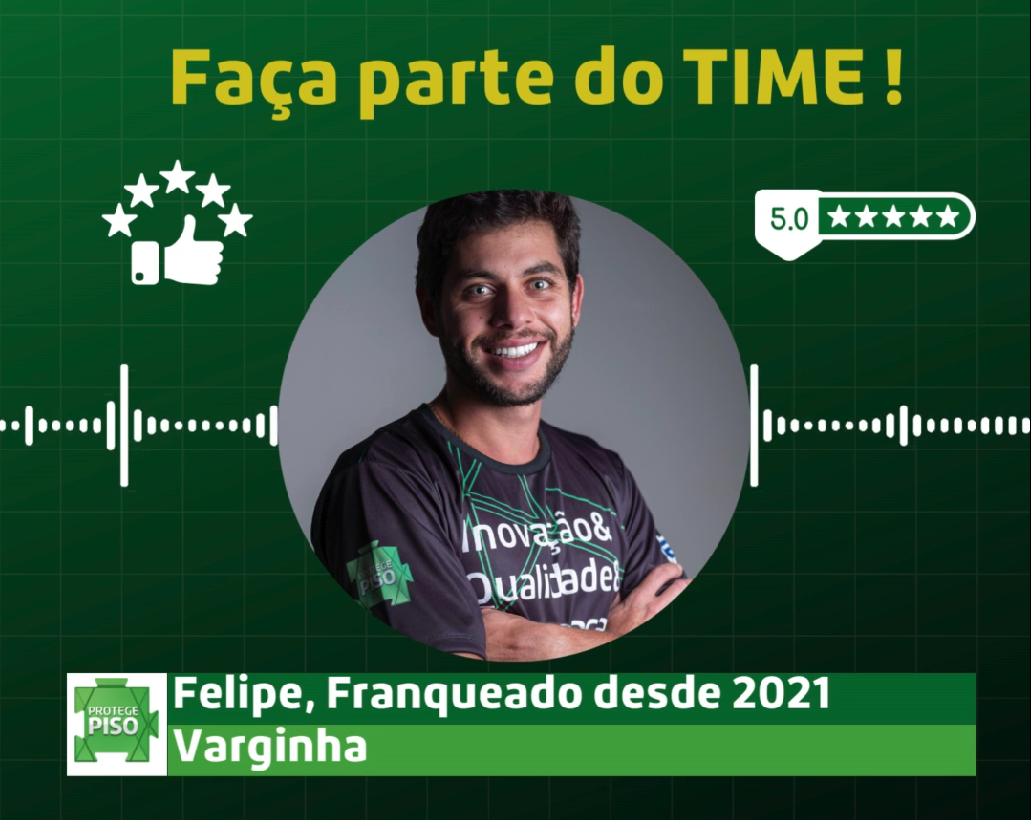
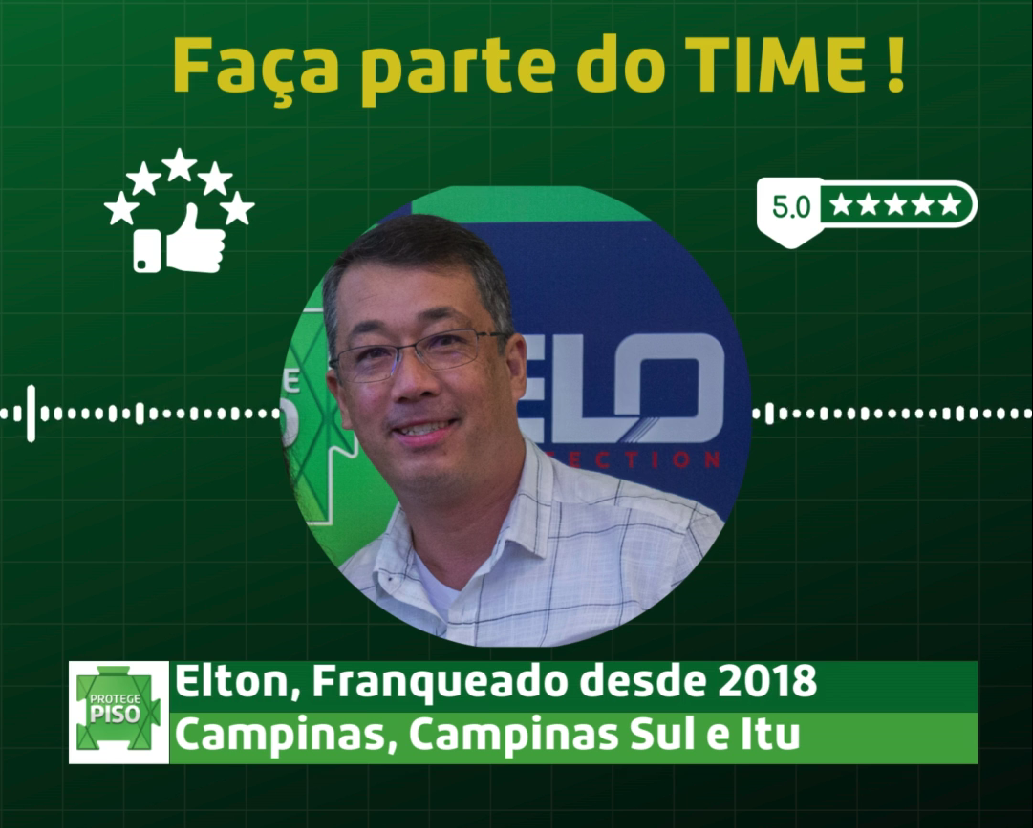
first commit campinas

diff --git a/index.html b/index.html
@@ -5,7 +5,7 @@
     <meta charset="UTF-8">
     <meta name="viewport" content="width=device-width, initial-scale=1.0">
     <meta name="Landing Page" content="Website da franquia da protege piso de Palmas">
-    <title>Protege Piso Varginha</title>
+    <title>Protege Piso Campinas</title>
     <link rel="stylesheet" href="styles.css">
     <link rel="stylesheet" href="https://cdn.jsdelivr.net/npm/glider-js@1/glider.min.css">
     <script src="https://cdn.jsdelivr.net/npm/glider-js@1/glider.min.js"></script>
@@ -31,7 +31,7 @@
                 <div class="navbar-container">
                     <a href="#" class="logo">
                         <img src="./images/logoprotege.png" alt="Logo da protege piso">
-                        <h3>Balneário Varginha</h3>
+                        <h3>Campinas</h3>
                     </a>
 
                     <div class="menu-toggle" id="mobile-menu" onclick="toggleMenu()">
@@ -45,7 +45,7 @@
                         <li class="nav-item"><a href="#Informacoes" class="nav-link">Informações</a></li>
                         <li class="nav-item"><a href="#" class="nav-link" id="openChatBtn">Seja um franqueado</a></li>
                         <li class="nav-item">
-                            <a href="https://api.whatsapp.com/send?phone=5535987021373" target="_blank">
+                            <a href="https://api.whatsapp.com/send?phone=5519982088208" target="_blank">
                                 <img src="images/icone_whatsapp.png" alt="icone logo whatsapp" class="whatsapp-icon-nav"
                                     style="margin-right: 10px;">
                             </a>
@@ -172,7 +172,7 @@
             </p>
         </div>
         <div class="container-iframe">
-            <iframe src="https://app.ketzim.com/webservice/mapa/varginha/" class="iframe-full" title="Mapa das obras realizadas na cidade da franquia"></iframe>
+            <iframe src="https://app.ketzim.com/webservice/mapa/campinas/" class="iframe-full" title="Mapa das obras realizadas na cidade da franquia"></iframe>
         </div>
     </section>
 
@@ -185,7 +185,7 @@
                 <p id="followers"></p>
                 <p id="posts"></p>
             </div>
-            <a href="https://www.instagram.com/protegepisovarginha/" target="_blank"><button type="button"
+            <a href="https://www.instagram.com/protegepisocampinas/" target="_blank"><button type="button"
                     class="botao-seguir">Seguir</button></a>
         </div>
         <div class="glider-contain-custom">
@@ -208,20 +208,20 @@
 
         <div class="rodape-informacoes">
             <h5>Franquia</h5>
-            <p>felipe@protegepiso.com.br</p>
+            <p>elton@protegepiso.com.br</p>
             <div class="item-rodape">
-                <a href="https://api.whatsapp.com/send?phone=5535987021373" target="_blank">
+                <a href="https://api.whatsapp.com/send?phone=5519982088208" target="_blank">
                     <img src="images/icone_whatsapp.png" alt="icone logo whatsapp"
                         class="rodape-informacoes-icone-whatsapp">
                 </a>
-                <p>(35) 98702-1373</p>
+                <p>(19) 98208-8208</p>
             </div>
             <div class="item-rodape">
-                <a href="https://www.instagram.com/protegepisovarginha/" target="_blank">
+                <a href="https://www.instagram.com/protegepisocampinas/" target="_blank">
                     <img src="images/icone_instagram.png" alt="icone logo instagram"
                         class="rodape-informacoes-icone-instagram">
                 </a>
-                <p>@protegepisovarginha</p>
+                <p>@protegepisocampinas</p>
             </div>
         </div>
 

diff --git a/index.js b/index.js
@@ -39,7 +39,7 @@ function toggleMenu() {
     menu.classList.toggle('active');
 }
 
-const apiUrl = 'https://app.ketzim.com/webservice/get-instagram-info/ProtegePisoVarginha/?Token=Ld7gRCo9JtIRw0Ub3sC3JxuCgIMvSAzJEMLSutCPh9XosGzzqpdlhsqhUYXHHRyHKPZ6MHcwfl8Dl7ohzsKv7jpihquxHvFmEkFJ';
+const apiUrl = 'https://app.ketzim.com/webservice/get-instagram-info/ProtegePisoCampinas/?Token=Ld7gRCo9JtIRw0Ub3sC3JxuCgIMvSAzJEMLSutCPh9XosGzzqpdlhsqhUYXHHRyHKPZ6MHcwfl8Dl7ohzsKv7jpihquxHvFmEkFJ';
 
 function displayUserProfile(profile) {
     document.getElementById('profile-picture').src = profile.profile_picture_url;
@@ -75,7 +75,7 @@ function displayPosts(posts) {
         postCard.classList.add('post-card-custom');
 
         postCard.innerHTML = `
-            <a href="${post.permalink}" target="_blank"> <!-- Link clicável -->
+            <a href="${post.permalink}" target="_blank">
                 <img src="${post.media_url}" alt="${post.caption}">
             </a>
         `;
@@ -134,7 +134,7 @@ function waitForJivoChat() {
 waitForJivoChat();
 
 const iframeContainer = document.querySelector('.container-iframe');
-const iframeUrl = 'https://app.ketzim.com/webservice/mapa/varginha/';
+const iframeUrl = 'https://app.ketzim.com/webservice/mapa/campinas/';
 
 
 fetch(iframeUrl)
